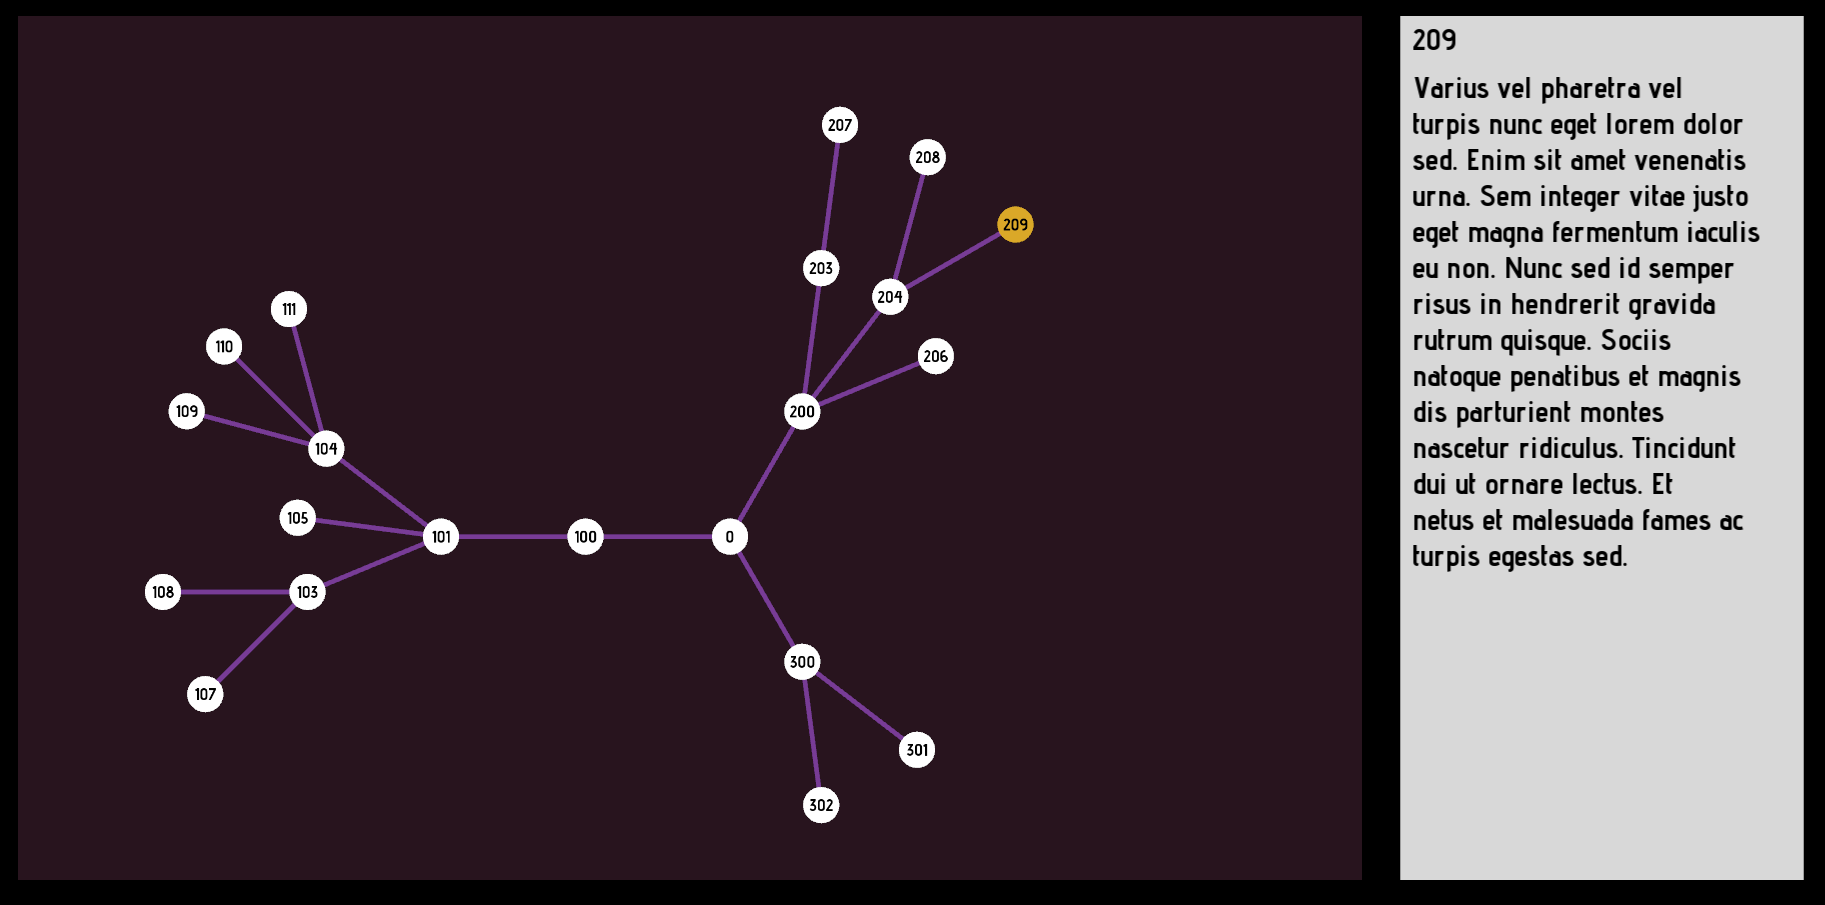
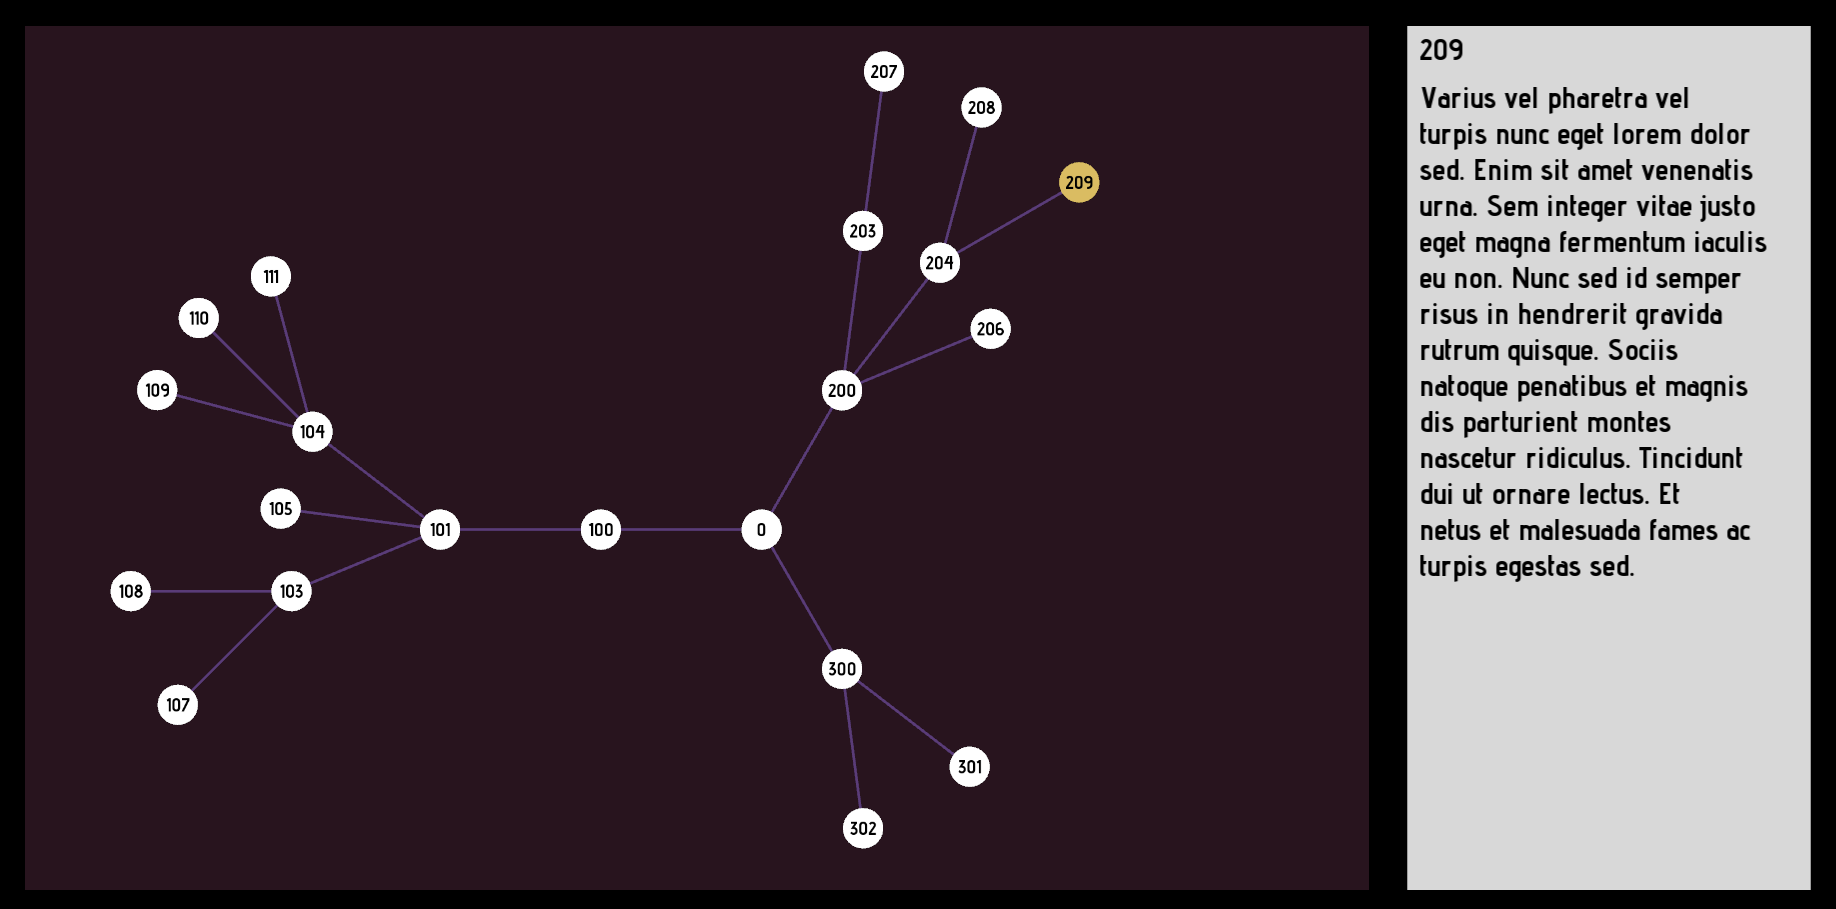
minor visual changes
updated screenshot to reflect said changes

diff --git a/src/node.cpp b/src/node.cpp
@@ -47,7 +47,7 @@ void Tree::Node::placeChildren(sf::Vector2f pos, float angle, float slice){
 
     if(children.size() > 1) offset = slice/children.size();
 
-    angle -= (offset / 2.f) * (children.size() / 2.f);
+    angle -= (offset / 2.f) * (children.size() / 2.f + 0.5f);
 
     if(angle < 0.f) angle += 360.f;
 
@@ -67,10 +67,10 @@ void Tree::Node::connectChildren(){
         std::cout << " to child " << i << " (" << children[i]->id << ") at " << children[i]->circle.getPosition().x << ", " << children[i]->circle.getPosition().y << '\n';
         sf::Vector2f p2 = children[i]->circle.getPosition();
         child_lines[i].setPosition(p1);
-        child_lines[i].setSize(sf::Vector2f(8.f, scalarDistance(p2, p1)));
-        child_lines[i].setOrigin(sf::Vector2f(4.f, 0.f));
+        child_lines[i].setSize(sf::Vector2f(4.f, scalarDistance(p2, p1)));
+        child_lines[i].setOrigin(sf::Vector2f(2.f, 0.f));
         child_lines[i].setRotation(calculateAngle(p2, p1));
-        child_lines[i].setFillColor(sf::Color(120, 60, 150));
+        child_lines[i].setFillColor(sf::Color(90, 60, 120));
         children[i]->connectChildren();
     }
 }
@@ -127,7 +127,7 @@ Tree::Node* Tree::Node::checkClick()
 void Tree::Node::select()
 {
     selected = true;
-    circle.setFillColor(sf::Color(218, 168, 40));
+    circle.setFillColor(sf::Color(218, 188, 98));
     text.setFillColor(sf::Color::Black);
 }
 
